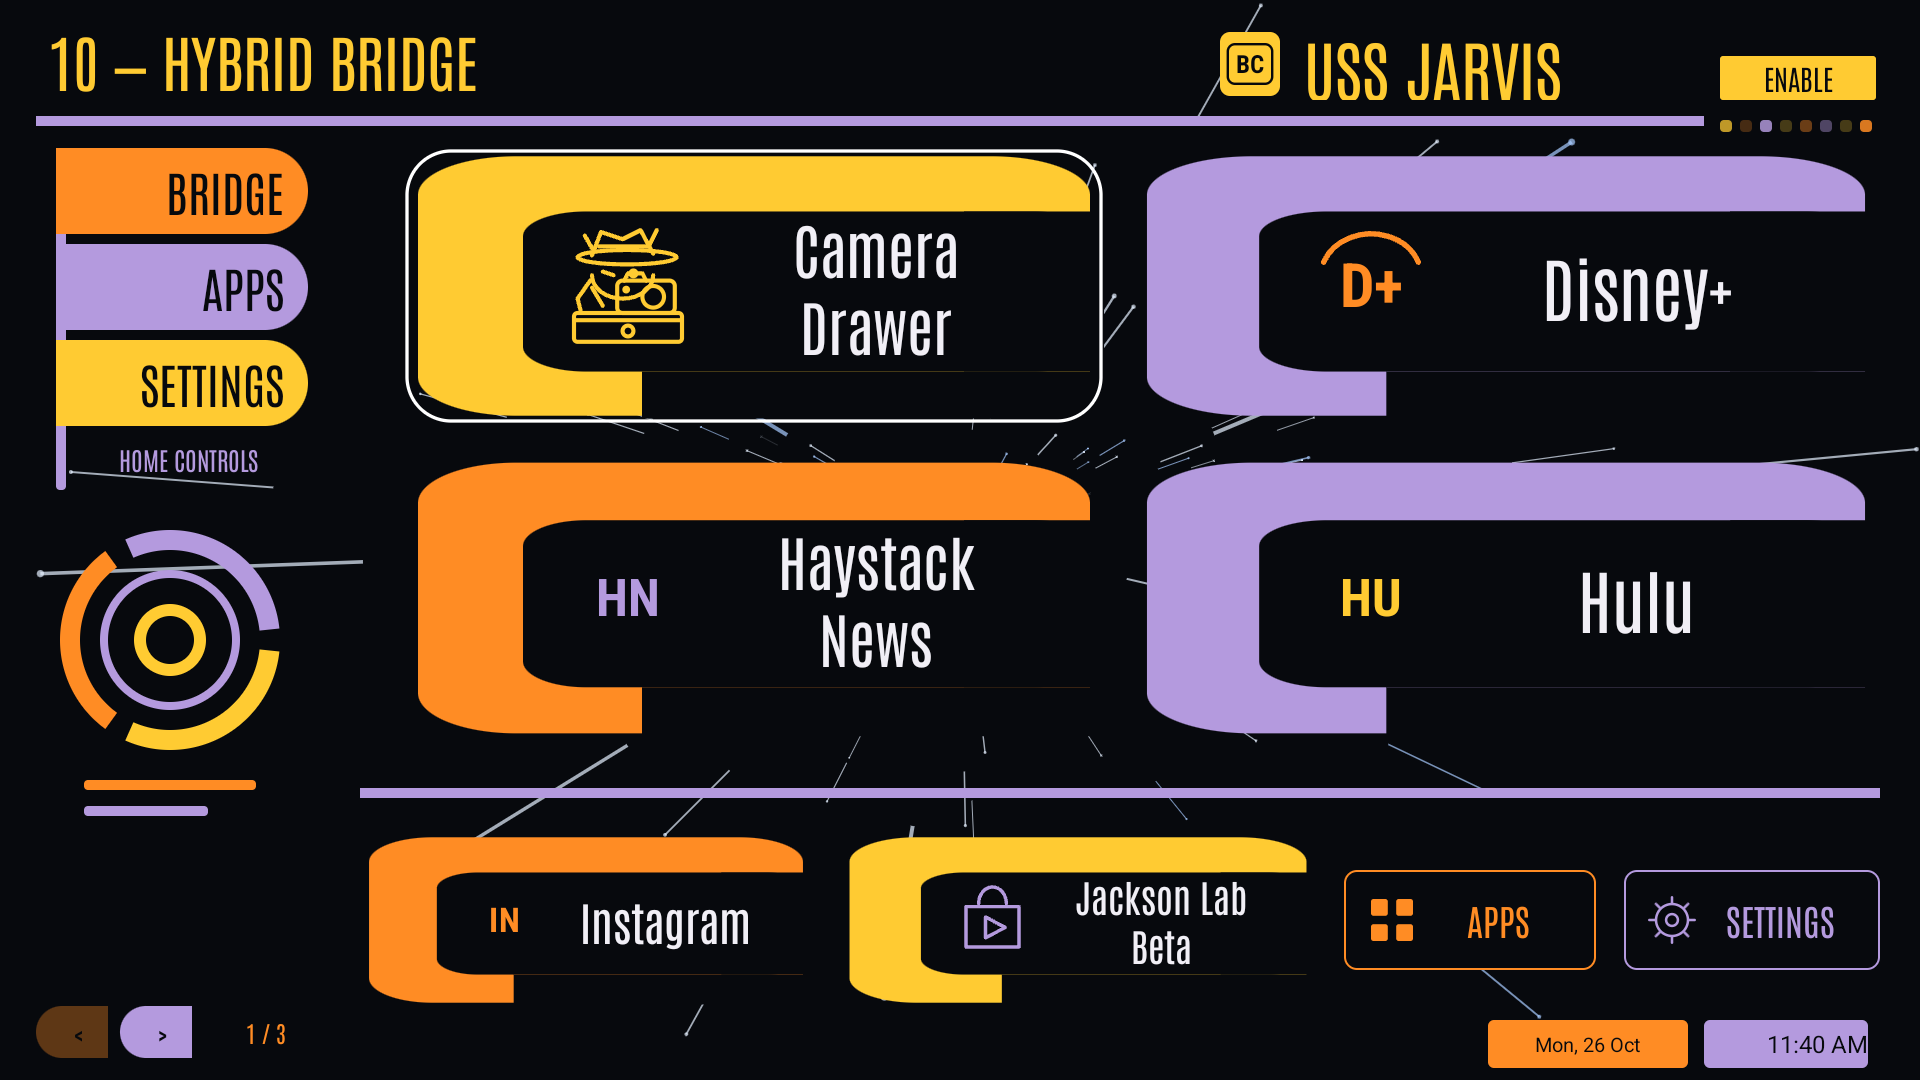
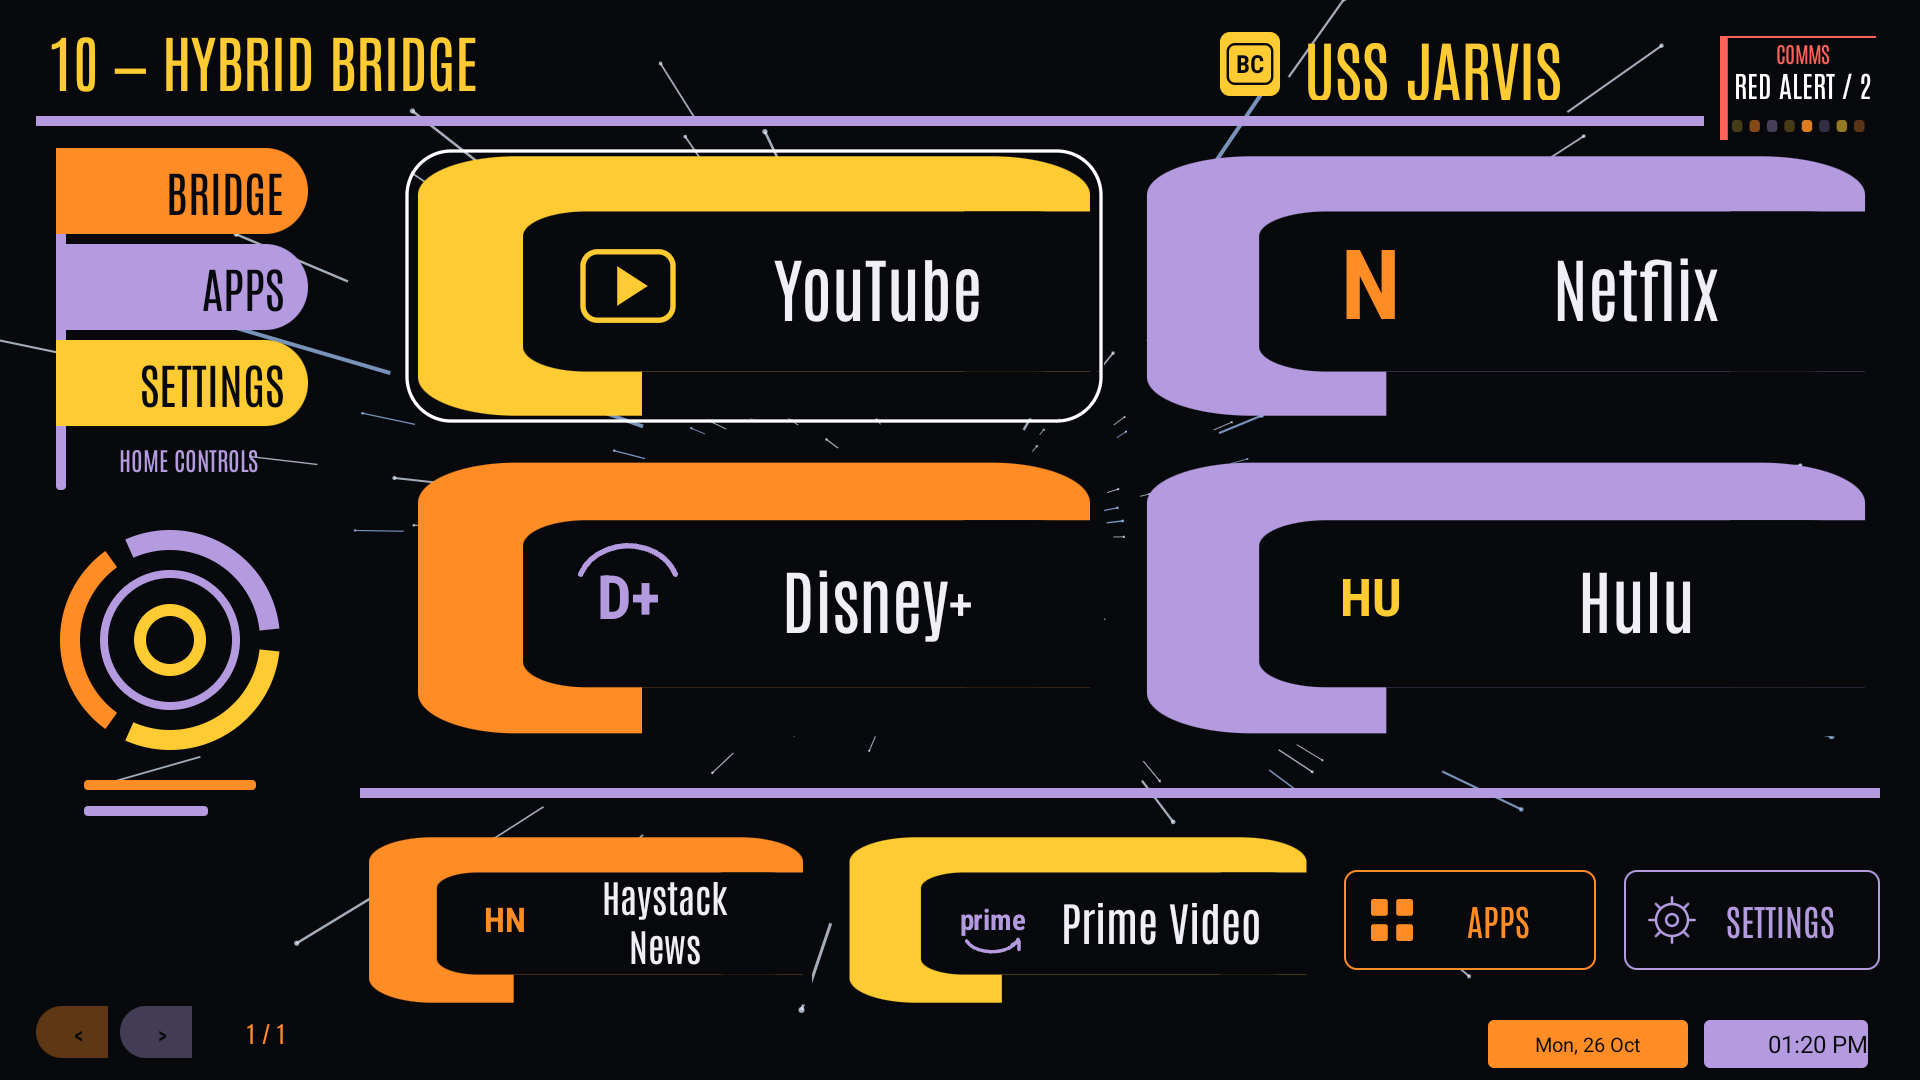
Show all eleven layouts with a media-only app lineup

diff --git a/index.html b/index.html
@@ -1,9 +1,9 @@
 <!doctype html><html lang="en"><head><meta charset="utf-8"><meta name="viewport" content="width=device-width,initial-scale=1"><meta name="description" content="Bridge Console TV: a free LCARS-inspired Android TV launcher with orbital app controls, animated stars and optional Home Assistant integration."><title>Bridge Console TV · Android TV launcher</title><style>
-@font-face{font-family:Antonio;src:url(fonts/Antonio.ttf);font-display:swap}:root{color-scheme:dark;--gold:#ffcb32;--orange:#ff8c24;--lavender:#b49ade;--ink:#07090d}*{box-sizing:border-box}body{margin:0;background:var(--ink);color:#f5f2f8;font:17px/1.65 system-ui,sans-serif}main{max-width:1160px;margin:auto;padding:30px 24px 70px}header{border-left:16px solid var(--lavender);border-top:14px solid var(--orange);border-radius:40px 0 0 0;padding:24px 0 12px 26px}h1,h2,h3,.button,.version{font-family:Antonio,'Arial Narrow',sans-serif;line-height:1.2}h1{font-size:clamp(42px,7vw,80px);color:var(--gold);font-weight:500;margin:8px 0 20px}h2{font-size:34px;color:var(--gold);font-weight:500}h3{font-size:25px;color:var(--lavender);margin-bottom:8px}p{max-width:780px}.version{color:var(--lavender);font-size:21px;letter-spacing:.05em}.actions{display:flex;flex-wrap:wrap;gap:14px;margin:26px 0}.button{display:inline-block;border:0;border-radius:0 25px 25px 0;padding:16px 24px;background:var(--gold);color:var(--ink);text-decoration:none;font-size:23px}.button.secondary{background:var(--lavender)}button:disabled{opacity:.55;cursor:not-allowed}a{color:var(--gold)}a:focus-visible,button:focus-visible{outline:3px solid white;outline-offset:5px}.note{color:#b9beca;font-size:14px}.hero{width:100%;border:1px solid #4d435e;border-radius:18px;display:block;margin-top:30px}.features{display:grid;grid-template-columns:repeat(3,1fr);gap:24px;margin:34px 0}.features>div{border-top:6px solid var(--orange);padding-top:8px}.features>div:nth-child(2){border-color:var(--gold)}.features>div:nth-child(3){border-color:var(--lavender)}section{margin-top:48px}li{margin-bottom:12px}footer{margin-top:50px;padding-top:20px;border-top:8px solid var(--lavender)}.small{font-size:14px;color:#b9beca}code{overflow-wrap:anywhere}.preview{border-left:5px solid var(--orange);padding:8px 16px;background:#15131a}@media(max-width:700px){.features{grid-template-columns:1fr}main{padding:18px 16px 40px}header{padding-left:18px;border-left-width:10px}.button{font-size:21px}}
-</style></head><body><main><header><div class="version">ANDROID TV · PUBLIC PREVIEW 0.60</div><h1>BRIDGE CONSOLE TV</h1><p>Your TV, with a starship console interface. A remote-friendly Android TV launcher inspired by LCARS, with animated starfields and optional Home Assistant controls.</p><div class="actions"><a class="button" href="https://github.com/firejackson1/bridge-console-tv/releases/download/v0.60.0-preview.1/BridgeConsoleTV.apk">Download APK · 0.60</a><a class="button secondary" href="#install">How to install</a></div><p class="note">Free preview · Android TV 8.0 or newer · Tested on onn 4K Pro</p></header>
-<img class="hero" src="images/orbital.png" alt="Bridge Console TV running on an onn 4K Pro, showing connected orbital app slices and a colorful LCARS header" width="1920" height="1080"><p class="note">Actual launcher capture. Installed apps and theme colors can be customized.</p>
+@font-face{font-family:Antonio;src:url(fonts/Antonio.ttf);font-display:swap}:root{color-scheme:dark;--gold:#ffcb32;--orange:#ff8c24;--lavender:#b49ade;--ink:#07090d}*{box-sizing:border-box}body{margin:0;background:var(--ink);color:#f5f2f8;font:17px/1.65 system-ui,sans-serif}main{max-width:1160px;margin:auto;padding:30px 24px 70px}header{border-left:16px solid var(--lavender);border-top:14px solid var(--orange);border-radius:40px 0 0 0;padding:24px 0 12px 26px}h1,h2,h3,.button,.version{font-family:Antonio,'Arial Narrow',sans-serif;line-height:1.2}h1{font-size:clamp(42px,7vw,80px);color:var(--gold);font-weight:500;margin:8px 0 20px}h2{font-size:34px;color:var(--gold);font-weight:500}h3{font-size:25px;color:var(--lavender);margin-bottom:8px}p{max-width:780px}.version{color:var(--lavender);font-size:21px;letter-spacing:.05em}.actions{display:flex;flex-wrap:wrap;gap:14px;margin:26px 0}.button{display:inline-block;border:0;border-radius:0 25px 25px 0;padding:16px 24px;background:var(--gold);color:var(--ink);text-decoration:none;font-size:23px}.button.secondary{background:var(--lavender)}button:disabled{opacity:.55;cursor:not-allowed}a{color:var(--gold)}a:focus-visible,button:focus-visible{outline:3px solid white;outline-offset:5px}.note{color:#b9beca;font-size:14px}.hero{width:100%;border:1px solid #4d435e;border-radius:18px;display:block;margin-top:30px}.features{display:grid;grid-template-columns:repeat(3,1fr);gap:24px;margin:34px 0}.features>div{border-top:6px solid var(--orange);padding-top:8px}.features>div:nth-child(2){border-color:var(--gold)}.features>div:nth-child(3){border-color:var(--lavender)}section{margin-top:48px}.layout-grid{display:grid;grid-template-columns:repeat(2,minmax(0,1fr));gap:22px}.layout-grid figure{margin:0;background:#10131a;border:1px solid #3e354d;border-radius:12px;overflow:hidden}.layout-grid img{display:block;width:100%;height:auto;aspect-ratio:16/9;object-fit:contain}.layout-grid figcaption{padding:12px 16px;font-family:Antonio,sans-serif;color:var(--gold);font-size:23px}.layout-grid a{display:block}.layout-grid a:focus-visible{outline-offset:-4px}li{margin-bottom:12px}footer{margin-top:50px;padding-top:20px;border-top:8px solid var(--lavender)}.small{font-size:14px;color:#b9beca}code{overflow-wrap:anywhere}.preview{border-left:5px solid var(--orange);padding:8px 16px;background:#15131a}@media(max-width:700px){.features,.layout-grid{grid-template-columns:1fr}main{padding:18px 16px 40px}header{padding-left:18px;border-left-width:10px}.button{font-size:21px}}
+</style></head><body><main><header><div class="version">ANDROID TV · PUBLIC PREVIEW 0.60</div><h1>BRIDGE CONSOLE TV</h1><p>Your TV, with a starship console interface. A remote-friendly Android TV launcher inspired by LCARS, with animated starfields and optional Home Assistant controls.</p><div class="actions"><a class="button" href="https://github.com/firejackson1/bridge-console-tv/releases/download/v0.60.0-preview.1/BridgeConsoleTV.apk">Download APK · 0.60</a><a class="button secondary" href="#install">How to install</a><a class="button secondary" href="#layouts">Explore all layouts</a></div><p class="note">Free preview · Android TV 8.0 or newer · Tested on onn 4K Pro</p></header>
+<img class="hero" src="images/layout-03.png" alt="Bridge Console TV running on an onn 4K Pro, showing connected orbital app slices and a colorful LCARS header" width="1920" height="1080"><p class="note">Actual native launcher capture using a temporary media-app arrangement. Apps shown are installed separately; your apps and theme colors can be customized.</p>
 <div class="features"><div><h3>MAKE IT YOUR BRIDGE</h3><p>Ten LCARS screen layouts, a classic layout, selectable palettes, app pinning, folders and search.</p></div><div><h3>STARS IN MOTION</h3><p>Animated backgrounds and a starfield screensaver, adjustable speeds, and optional flying objects.</p></div><div><h3>YOUR HOME, WITHIN REACH</h3><p>Optional Home Assistant integration. Reveal compact controls, then press again for the full controls popup.</p></div></div>
-<section id="install"><h2>INSTALL THE PREVIEW</h2><ol><li>Download <strong>BridgeConsoleTV.apk</strong> to your Android TV, or transfer it from your computer or phone.</li><li>Open the APK with a browser or file manager. If Android asks, allow that application to install unknown apps, then install Bridge Console TV.</li><li>Open Bridge Console TV from your apps list and try remote navigation, themes and settings.</li><li>Default-launcher setup varies by TV. Confirm the app works on your device before changing your default Home app.</li></ol><p>Home Assistant and notification access are optional and configured separately inside the app.</p><div class="preview"><strong>Moving from a development build?</strong> This public APK uses a dedicated release signing key. Development-signed installs cannot update directly to it. Export your launcher settings before switching; uninstalling can remove app data.</div><p><a href="https://github.com/firejackson1/bridge-console-tv/releases/tag/v0.60.0-preview.1">Release notes, checksum and third-party notices</a></p></section>
+<section id="layouts"><h2>CHOOSE YOUR BRIDGE</h2><p>Ten LCARS layouts and the classic bridge. These are native captures from the same onn 4K Pro using a temporary arrangement of installed media apps. Open any image at full resolution.</p><div class="layout-grid"><figure><a href="images/layout-01.png"><img src="images/layout-01.png" width="1920" height="1080" loading="lazy" alt="Elbow Bays layout with YouTube, Netflix, Disney+, Hulu, Haystack News and Prime Video"></a><figcaption>Elbow Bays</figcaption></figure><figure><a href="images/layout-02.png"><img src="images/layout-02.png" width="1920" height="1080" loading="lazy" alt="Command Strips layout with YouTube, Netflix, Disney+, Hulu, Haystack News and Prime Video"></a><figcaption>Command Strips</figcaption></figure><figure><a href="images/layout-03.png"><img src="images/layout-03.png" width="1920" height="1080" loading="lazy" alt="Orbital Dock layout with YouTube, Netflix, Disney+, Hulu, Haystack News and Prime Video"></a><figcaption>Orbital Dock</figcaption></figure><figure><a href="images/layout-04.png"><img src="images/layout-04.png" width="1920" height="1080" loading="lazy" alt="Library Matrix layout with YouTube, Netflix, Disney+, Hulu, Haystack News and Prime Video"></a><figcaption>Library Matrix</figcaption></figure><figure><a href="images/layout-05.png"><img src="images/layout-05.png" width="1920" height="1080" loading="lazy" alt="Split Capsules layout with YouTube, Netflix, Disney+, Hulu, Haystack News and Prime Video"></a><figcaption>Split Capsules</figcaption></figure><figure><a href="images/layout-06.png"><img src="images/layout-06.png" width="1920" height="1080" loading="lazy" alt="Vertical Pylons layout with YouTube, Netflix, Disney+, Hulu, Haystack News and Prime Video"></a><figcaption>Vertical Pylons</figcaption></figure><figure><a href="images/layout-07.png"><img src="images/layout-07.png" width="1920" height="1080" loading="lazy" alt="Circuit Junctions layout with YouTube, Netflix, Disney+, Hulu, Haystack News and Prime Video"></a><figcaption>Circuit Junctions</figcaption></figure><figure><a href="images/layout-08.png"><img src="images/layout-08.png" width="1920" height="1080" loading="lazy" alt="Offset Tabs layout with YouTube, Netflix, Disney+, Hulu, Haystack News and Prime Video"></a><figcaption>Offset Tabs</figcaption></figure><figure><a href="images/layout-09.png"><img src="images/layout-09.png" width="1920" height="1080" loading="lazy" alt="Tactical Modules layout with YouTube, Netflix, Disney+, Hulu, Haystack News and Prime Video"></a><figcaption>Tactical Modules</figcaption></figure><figure><a href="images/layout-10.png"><img src="images/layout-10.png" width="1920" height="1080" loading="lazy" alt="Hybrid Bridge layout with YouTube, Netflix, Disney+, Hulu, Haystack News and Prime Video"></a><figcaption>Hybrid Bridge</figcaption></figure><figure><a href="images/layout-00.png"><img src="images/layout-00.png" width="1920" height="1080" loading="lazy" alt="Classic Bridge layout with YouTube, Netflix, Disney+, Hulu, Haystack News and Prime Video"></a><figcaption>Classic Bridge</figcaption></figure></div><p><a href="https://github.com/firejackson1/bridge-console-tv/releases/download/v0.60.0-preview.1/BridgeConsoleTV-layout-screenshots.zip">Download all eleven screenshots (ZIP)</a></p></section><section id="install"><h2>INSTALL THE PREVIEW</h2><ol><li>Download <strong>BridgeConsoleTV.apk</strong> to your Android TV, or transfer it from your computer or phone.</li><li>Open the APK with a browser or file manager. If Android asks, allow that application to install unknown apps, then install Bridge Console TV.</li><li>Open Bridge Console TV from your apps list and try remote navigation, themes and settings.</li><li>Default-launcher setup varies by TV. Confirm the app works on your device before changing your default Home app.</li></ol><p>Home Assistant and notification access are optional and configured separately inside the app.</p><div class="preview"><strong>Moving from a development build?</strong> This public APK uses a dedicated release signing key. Development-signed installs cannot update directly to it. Export your launcher settings before switching; uninstalling can remove app data.</div><p><a href="https://github.com/firejackson1/bridge-console-tv/releases/tag/v0.60.0-preview.1">Release notes, checksum and third-party notices</a></p></section>
 <section><h2>STILL A WORK IN PROGRESS</h2><p>This is an early public preview. The interface is being refined, and Android TV devices differ in launcher integration and widget support. Screenshots show one tested device; compatibility with every TV is not claimed.</p><p><a href="https://github.com/firejackson1/bridge-console-tv/issues">Report a bug or suggest an improvement</a></p></section>
 <section id="support"><h2>SUPPORT THE PROJECT</h2><p>Enjoy turning your TV into a bridge console? You can support development through PayPal. Donations are optional; no donation is needed to download or use this preview.</p><form action="https://www.paypal.com/donate" method="post" target="_top"><input type="hidden" name="business" value="TRU747AC2EYYA"><input type="hidden" name="no_recurring" value="0"><input type="hidden" name="currency_code" value="USD"><button class="button secondary" type="submit">☕ Support with PayPal</button></form></section>
 <footer><strong>BRIDGE CONSOLE TV · JACKSON LAB</strong><p class="small">Unofficial fan project. Not affiliated with or endorsed by Star Trek or its owners.</p><p class="small">Settings stay on your TV. Optional Home Assistant controls connect to your own server. This downloads repository contains the public page and release artifacts; it is not the development source repository.</p><p class="small"><a href="licenses/Antonio-OFL.txt">Antonio font license</a> · <a href="https://github.com/firejackson1/bridge-console-tv/releases">All releases</a></p></footer></main></body></html>

diff --git a/README.md b/README.md
@@ -4,7 +4,7 @@ A free LCARS-inspired Android TV launcher. Early public preview.
 
 **[Download page](https://firejackson1.github.io/bridge-console-tv/)** · **[APK and release notes](https://github.com/firejackson1/bridge-console-tv/releases)** · **[Report an issue](https://github.com/firejackson1/bridge-console-tv/issues)**
 
-![Actual Orbital layout](images/orbital.png)
+![Actual Orbital layout](images/layout-03.png)
 
 Ten LCARS layouts plus a classic layout, animated starfield backgrounds/screensaver, app organization and optional Home Assistant controls. Android TV 8.0 or newer; tested on onn 4K Pro.
 
@@ -13,3 +13,11 @@ Read installation instructions and development-signing migration notes on the do
 Support is optional. Use the PayPal button on the [download page](https://firejackson1.github.io/bridge-console-tv/#support) if you would like to support development.
 
 Unofficial fan project; not affiliated with or endorsed by Star Trek or its owners. Antonio is licensed under the SIL Open Font License; see licenses/Antonio-OFL.txt. APK third-party notices accompany each release.
+
+## All layouts
+
+[View the complete native screenshot gallery](https://firejackson1.github.io/bridge-console-tv/#layouts). The ten LCARS layouts and classic bridge use an arranged set of separately installed media apps.
+
+![Vertical Pylons](images/layout-06.png)
+
+![Hybrid Bridge](images/layout-10.png)

diff --git a/release-notes.md b/release-notes.md
@@ -21,3 +21,7 @@ The underlying 0.60 development build passed 3,198 host checks and 1,064 native 
 Optional Home Assistant setup and notification access are configured locally; the APK contains no owner account configuration. See **SHA256SUMS.txt**, **third-party-notices.txt** and **Antonio-OFL.txt** in Assets.
 
 Unofficial fan project; not affiliated with or endorsed by Star Trek or its owners. Support is optional. The [download page](https://firejackson1.github.io/bridge-console-tv/#support) includes a PayPal donation button.
+
+## Layout screenshots
+
+[Browse all eleven layouts](https://firejackson1.github.io/bridge-console-tv/#layouts), or download **BridgeConsoleTV-layout-screenshots.zip** from Assets. Native captures use a temporary arrangement of separately installed media apps; no storage or Jackson Lab store/camera apps appear.
